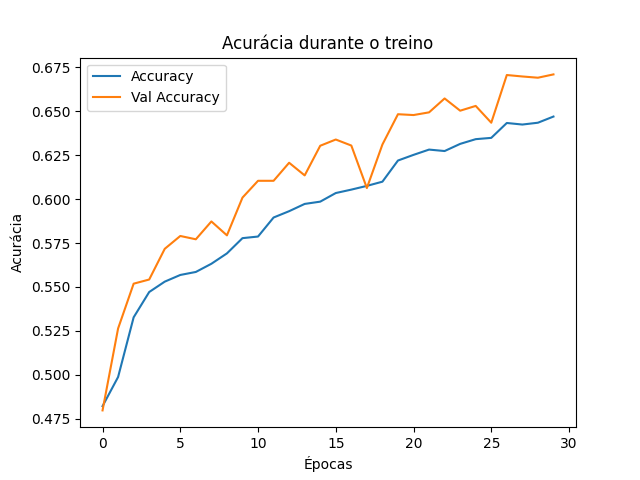
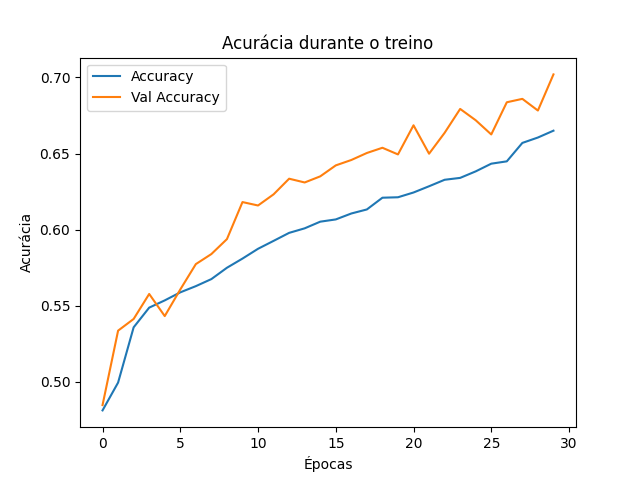
add new model

diff --git a/train_v2.py b/train_v2.py
@@ -1,0 +1,127 @@
+from tensorflow.keras.applications import VGG16
+from tensorflow.keras.models import Model
+from tensorflow.keras.layers import Input, Flatten, Dense, Dropout
+from tensorflow.keras.optimizers import Adam
+from tensorflow.keras import layers
+import tensorflow as tf
+from pathlib import Path
+import matplotlib.pyplot as plt
+import numpy as np
+from sklearn.metrics import confusion_matrix, ConfusionMatrixDisplay
+import kagglehub
+
+# Configuração de GPU
+gpus = tf.config.experimental.list_physical_devices('GPU')
+for gpu in gpus:
+    tf.config.experimental.set_memory_growth(gpu, True)
+
+# Download do dataset
+path = kagglehub.dataset_download("tawsifurrahman/covid19-radiography-database")
+dataset_dir = Path(f'{path}/COVID-19_Radiography_Dataset')
+
+# Hiperparâmetros
+IMG_SIZE = (224, 224)
+BATCH_SIZE = 16
+SEED = 123
+
+# Criação dos datasets com split 80/20
+train_ds = tf.keras.preprocessing.image_dataset_from_directory(
+    dataset_dir,
+    validation_split=0.2,
+    subset="training",
+    seed=SEED,
+    image_size=IMG_SIZE,
+    batch_size=BATCH_SIZE,
+    label_mode="categorical"  # one-hot para todas as classes
+)
+val_ds = tf.keras.preprocessing.image_dataset_from_directory(
+    dataset_dir,
+    validation_split=0.2,
+    subset="validation",
+    seed=SEED,
+    image_size=IMG_SIZE,
+    batch_size=BATCH_SIZE,
+    label_mode="categorical"
+)
+AUTOTUNE = tf.data.AUTOTUNE
+train_ds = train_ds.prefetch(AUTOTUNE)
+val_ds   = val_ds.prefetch(AUTOTUNE)
+
+# Data augmentation
+data_augmentation = tf.keras.Sequential([
+    layers.RandomFlip("horizontal_and_vertical"),
+    layers.RandomRotation(0.2),
+    layers.RandomZoom(0.1),
+    layers.RandomContrast(0.2)
+])
+
+# Entrada customizada para incluir augmentations
+inputs = Input(shape=(224, 224, 3))
+x = data_augmentation(inputs)
+
+# Base VGG16
+base_model = VGG16(weights='imagenet', include_top=False, input_tensor=x)
+base_model.trainable = False  # congela pesos
+
+# Cabeça do modelo
+x = Flatten()(base_model.output)
+x = Dense(256, activation='relu')(x)
+x = Dropout(0.5)(x)
+# CORREÇÃO: ativação 'softmax' para classificação multiclasse
+outputs = Dense(4, activation='softmax')(x)
+
+model = Model(inputs=inputs, outputs=outputs)
+
+# CORREÇÃO: categorical_crossentropy para múltiplas classes
+model.compile(
+    optimizer=Adam(learning_rate=1e-4),
+    loss='categorical_crossentropy',
+    metrics=['accuracy']
+)
+
+# Callbacks
+callbacks = [
+    tf.keras.callbacks.EarlyStopping(patience=5, restore_best_weights=True),
+    tf.keras.callbacks.ReduceLROnPlateau(factor=0.5, patience=3)
+]
+
+# Treinamento
+history = model.fit(
+    train_ds,
+    validation_data=val_ds,
+    epochs=30,
+    callbacks=callbacks
+)
+
+# Plots de loss e accuracy
+plt.plot(history.history['loss'], label='Loss')
+plt.plot(history.history['val_loss'], label='Val Loss')
+plt.title('Loss durante o treino')
+plt.xlabel('Épocas')
+plt.ylabel('Loss')
+plt.legend()
+plt.savefig("loss_plot.png")
+plt.clf()
+
+plt.plot(history.history['accuracy'], label='Accuracy')
+plt.plot(history.history['val_accuracy'], label='Val Accuracy')
+plt.title('Acurácia durante o treino')
+plt.xlabel('Épocas')
+plt.ylabel('Acurácia')
+plt.legend()
+plt.savefig("acc_plot.png")
+
+# Salva o modelo
+model.save("covid_model.h5")
+
+# Matriz de confusão
+y_pred, y_true = [], []
+for images, labels in val_ds:
+    preds = model.predict(images)
+    y_pred.extend(np.argmax(preds, axis=1))
+    y_true.extend(np.argmax(labels.numpy(), axis=1))
+
+cm = confusion_matrix(y_true, y_pred)
+disp = ConfusionMatrixDisplay(cm)
+disp.plot()
+plt.savefig("confusion_matrix.png")
